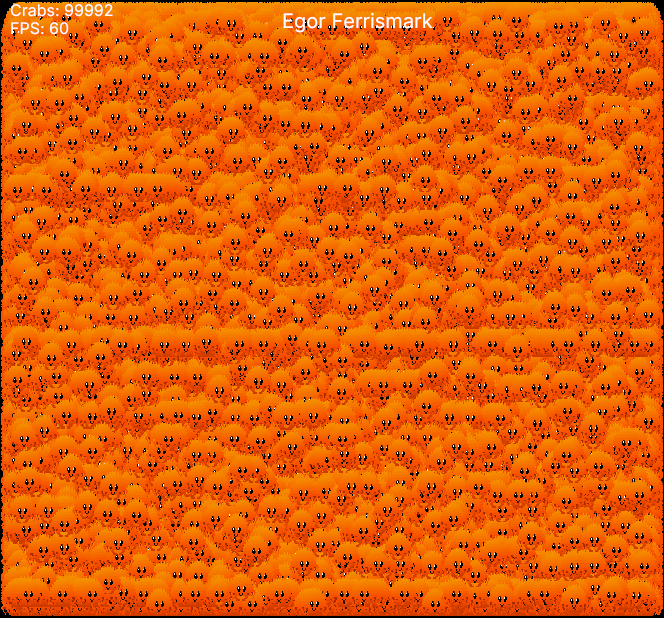
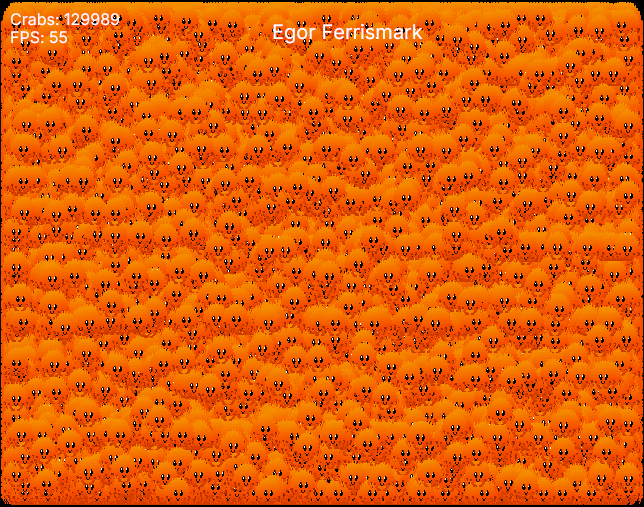
feat(render): render frames without a window
Renderer::headless picks an adapter with no surface and read_target copies the frame back,
so render_image can draw one frame for tests, thumbnails and hosts with no display. README
updated for software rendering and the ferrismark numbers.

diff --git a/crates/egor_render/src/lib.rs b/crates/egor_render/src/lib.rs
@@ -12,10 +12,12 @@ pub use wgpu::{Device, MemoryHints, Queue, RenderPass, TextureFormat};
 use std::cell::RefCell;
 use std::rc::Rc;
 use wgpu::{
-    Adapter, BindGroup, BindGroupDescriptor, BindGroupEntry, Buffer, BufferUsages, Color,
-    CommandEncoder, DeviceDescriptor, Instance, InstanceDescriptor, LoadOp, Operations,
-    RenderPassColorAttachment, RenderPassDescriptor, RequestAdapterOptions, StoreOp, SurfaceTarget,
-    TextureView, WindowHandle,
+    Adapter, BindGroup, BindGroupDescriptor, BindGroupEntry, Buffer, BufferDescriptor,
+    BufferUsages, COPY_BYTES_PER_ROW_ALIGNMENT, Color, CommandEncoder, CommandEncoderDescriptor,
+    DeviceDescriptor, Extent3d, Instance, InstanceDescriptor, LoadOp, MapMode, Operations,
+    Origin3d, PollType, RenderPassColorAttachment, RenderPassDescriptor, RequestAdapterOptions,
+    StoreOp, SurfaceTarget, TexelCopyBufferInfo, TexelCopyBufferLayout, TexelCopyTextureInfo,
+    TextureAspect, TextureView, WindowHandle,
     util::{BufferInitDescriptor, DeviceExt, new_instance_with_webgpu_detection},
 };
 
@@ -131,6 +133,7 @@ impl Renderer {
             })
             .await
             .unwrap();
+
         let (device, queue) = adapter
             .request_device(&DeviceDescriptor {
                 #[cfg(target_arch = "wasm32")]
@@ -142,8 +145,72 @@ impl Renderer {
             .unwrap();
 
         let surface_config = surface.get_default_config(&adapter, 1, 1).unwrap();
-        let surface_format = surface_config.format;
-        let pipelines = Pipelines::new(&device, surface_format);
+        Self::assemble(
+            Gpu {
+                instance,
+                adapter,
+                device,
+                queue,
+            },
+            surface_config.format,
+        )
+    }
+
+    /// Builds a renderer that never opens a window, for tests and headless hosts
+    ///
+    /// Frames render into an [`OffscreenTarget`]
+    /// and come back through [`Self::read_target`].
+    pub fn headless(width: u32, height: u32, memory_hints: &MemoryHints) -> Self {
+        pollster::block_on(async {
+            let instance = new_instance_with_webgpu_detection(
+                InstanceDescriptor::new_without_display_handle_from_env(),
+            )
+            .await;
+            let adapter = instance
+                .request_adapter(&RequestAdapterOptions::default())
+                .await
+                .unwrap();
+
+            let (device, queue) = adapter
+                .request_device(&DeviceDescriptor {
+                    #[cfg(target_arch = "wasm32")]
+                    required_limits: wgpu::Limits::downlevel_webgl2_defaults(),
+                    memory_hints: memory_hints.clone(),
+                    ..Default::default()
+                })
+                .await
+                .unwrap();
+
+            let renderer = Self::assemble(
+                Gpu {
+                    instance,
+                    adapter,
+                    device,
+                    queue,
+                },
+                TextureFormat::Rgba8UnormSrgb,
+            );
+            renderer.set_target_size(width, height);
+            renderer
+        })
+    }
+
+    fn assemble(gpu: Gpu, surface_format: TextureFormat) -> Self {
+        #[cfg(feature = "log")]
+        {
+            let info = gpu.adapter.get_info();
+            log::info!(
+                "adapter: {} ({:?}, {:?}, driver {})",
+                info.name,
+                info.backend,
+                info.device_type,
+                info.driver
+            );
+        }
+
+        let device = &gpu.device;
+        let queue = &gpu.queue;
+        let pipelines = Pipelines::new(device, surface_format);
 
         let quad_vertex_buffer = device.create_buffer_init(&BufferInitDescriptor {
             label: Some("Static Unit Quad VB"),
@@ -192,16 +259,11 @@ impl Renderer {
             }],
         });
 
-        let uniforms = Uniforms::new(&device);
-        let textures = Textures::new(&device, &queue);
+        let uniforms = Uniforms::new(device);
+        let textures = Textures::new(device, queue);
 
         Renderer {
-            gpu: Gpu {
-                instance,
-                adapter,
-                device,
-                queue,
-            },
+            gpu,
             pipelines,
             quad_vertex_buffer,
             quad_index_buffer,
@@ -267,6 +329,71 @@ impl Renderer {
         for id in freed {
             self.textures.free(id);
         }
+    }
+
+    /// Copies an offscreen target back as RGBA8 rows, top row first
+    ///
+    /// Each row is tightly packed, so the returned length is `width * height * 4`
+    /// whatever the copy alignment was.
+    pub fn read_target(&self, target: &OffscreenTarget) -> Vec<u8> {
+        let (width, height) = target.size();
+        let unpadded = width * 4;
+        let padded = unpadded.div_ceil(COPY_BYTES_PER_ROW_ALIGNMENT) * COPY_BYTES_PER_ROW_ALIGNMENT;
+
+        let buffer = self.gpu.device.create_buffer(&BufferDescriptor {
+            label: Some("Target Readback"),
+            size: u64::from(padded) * u64::from(height),
+            usage: BufferUsages::COPY_DST | BufferUsages::MAP_READ,
+            mapped_at_creation: false,
+        });
+
+        let mut encoder = self
+            .gpu
+            .device
+            .create_command_encoder(&CommandEncoderDescriptor::default());
+        encoder.copy_texture_to_buffer(
+            TexelCopyTextureInfo {
+                texture: target.attachment(),
+                mip_level: 0,
+                origin: Origin3d::ZERO,
+                aspect: TextureAspect::All,
+            },
+            TexelCopyBufferInfo {
+                buffer: &buffer,
+                layout: TexelCopyBufferLayout {
+                    offset: 0,
+                    bytes_per_row: Some(padded),
+                    rows_per_image: Some(height),
+                },
+            },
+            Extent3d {
+                width,
+                height,
+                depth_or_array_layers: 1,
+            },
+        );
+        self.gpu.queue.submit(Some(encoder.finish()));
+
+        let slice = buffer.slice(..);
+        slice.map_async(MapMode::Read, |_| {});
+        self.gpu
+            .device
+            .poll(PollType::Wait {
+                submission_index: None,
+                timeout: None,
+            })
+            .unwrap();
+
+        let mapped = slice.get_mapped_range().unwrap();
+        let mut pixels = Vec::with_capacity((unpadded * height) as usize);
+        for row in 0..height {
+            let start = (row * padded) as usize;
+            pixels.extend_from_slice(&mapped[start..start + unpadded as usize]);
+        }
+        drop(mapped);
+        buffer.unmap();
+
+        pixels
     }
 
     /// Begins a render pass with the given encoder and target view.

diff --git a/src/graphics.rs b/src/graphics.rs
@@ -1,5 +1,5 @@
 use egor_render::{
-    ClipRect, Renderer, Space, Texture, TextureFormat,
+    ClipRect, MemoryHints, Renderer, Space, Texture, TextureFormat,
     batch::{BatchKey, GeometryBatch},
     target::{OffscreenTarget, RenderTarget},
 };
@@ -13,6 +13,35 @@ use crate::{
     primitives::{BatchList, PolygonBuilder, PolylineBuilder, RectangleBuilder},
     text::{TextBuilder, TextSystem},
 };
+
+/// Renders one frame with no window and returns it as RGBA8 pixels
+///
+/// Top row first, tightly packed, `width * height * 4` bytes. For tests, thumbnails
+/// and hosts with no display; adapters come from the usual wgpu backend selection.
+pub fn render_image(width: u32, height: u32, mut draw: impl FnMut(&mut Graphics)) -> Vec<u8> {
+    let format = TextureFormat::Rgba8UnormSrgb;
+    let mut renderer = Renderer::headless(width, height, &MemoryHints::Performance);
+    let mut batches = BatchList::new(
+        GeometryBatch::DEFAULT_MAX_VERTICES,
+        GeometryBatch::DEFAULT_MAX_INDICES,
+    );
+    let mut text = TextSystem::new();
+    let mut target = renderer.create_offscreen_target(width, height, format);
+
+    {
+        let mut gfx = Graphics::new(
+            &mut renderer,
+            &mut batches,
+            &mut text,
+            format,
+            width,
+            height,
+        );
+        gfx.render_offscreen(&mut target, &mut draw);
+    }
+
+    renderer.read_target(&target)
+}
 
 /// Converts a screen-space [`Rect`] into an integer [`ClipRect`]
 ///

diff --git a/crates/egor_render/src/target.rs b/crates/egor_render/src/target.rs
@@ -151,6 +151,11 @@ impl OffscreenTarget {
         &self.sample_texture
     }
 
+    /// The attachment that draws land in, before the sample copy
+    pub(crate) fn attachment(&self) -> &Texture {
+        &self.render_texture
+    }
+
     pub fn view(&self) -> &TextureView {
         &self.sample_view
     }

diff --git a/src/lib.rs b/src/lib.rs
@@ -85,7 +85,7 @@ pub mod render {
     pub use crate::{
         camera::Camera,
         color::Color,
-        graphics::Graphics,
+        graphics::{Graphics, render_image},
         primitives::{BorderRadii, Pivot},
         text::Align,
     };

diff --git a/README.md b/README.md
@@ -184,11 +184,38 @@ the rebuild shows on screen.
 > `dx serve` to a file runs the app but never rebuilds, and the first patch after it starts can land
 > one save late.
 
+### Rendering Without a Window
+
+`egor::render::render_image` draws one frame into a buffer, no window and no event loop:
+
+```rust
+let pixels = egor::render::render_image(640, 360, |gfx| {
+    gfx.clear(Color::BLACK);
+    gfx.rect().screen().at(pos).size(size).color(Color::WHITE);
+    gfx.text("hello").at(pos).size(32.0);
+});
+```
+
+It returns tightly packed RGBA8, top row first, `width * height * 4` bytes, ready for a texture or an encoder. Shapes, text and clipping behave as they do in a window, which makes it usable for thumbnails, image tests and hosts with no display.
+
 ## Performance
 
-To stress test **egor**, we made [ferrismark](demos/ferrismark), a bunnymark like demo capable of rendering hundreds of thousands of Ferris crabs at stable FPS on modest hardware
+To stress test **egor**, [ferrismark](demos/ferrismark) is a bunnymark like demo: 129,989 Ferris crabs at 55 FPS on a Ryzen 5 1600 and a Radeon Pro WX 2100.
 
-<img src="media/ferrismark.png" height="400" />
+| Radeon Pro WX 2100, 129,989 crabs | llvmpipe, 10,000 crabs |
+| --- | --- |
+| <img src="media/ferrismark.png" height="320" /> | <img src="media/ferrismark-sw.png" height="320" /> |
+
+### Software Rendering
+
+wgpu picks the adapter, so a CPU driver works like any other. Mesa's lavapipe is its software Vulkan driver, packaged as `vulkan-swrast` on Arch:
+
+```bash
+sudo pacman -S vulkan-swrast
+VK_ICD_FILENAMES=/usr/share/vulkan/icd.d/lvp_icd.json cargo xtask run ferrismark --features log
+```
+
+`RUST_LOG=info` prints the adapter it picked: `adapter: llvmpipe (LLVM 23.1.5, 256 bits) (Vulkan, Cpu, driver llvmpipe)`.
 
 ## Demos
 

diff --git a/demos/ferrismark/README.md b/demos/ferrismark/README.md
@@ -6,11 +6,11 @@ A simple stress test for **egor** with Ferris the crab (or a few)
 
 ![Ferrismark Screenshot](/media/ferrismark.png)
 
-> Stable 60 FPS with ~100k Ferris crabs
+> 129,989 crabs at 55 FPS
 
 ## Performance
 
-The results seen here were produced (with this demo) from an optimized release build with a Ryzen 5 2600 and a Radeon Pro WX2100 using the Vulkan backend on Wayland/Arch Linux. Each crab is updated and rendered individually, without GPU instancing
+The results seen here were produced (with this demo) from an optimized release build with a Ryzen 5 1600 and a Radeon Pro WX 2100 using the Vulkan backend on Wayland/Arch Linux. Each crab is updated and rendered individually, without GPU instancing. On a CPU rasterizer (llvmpipe) the same demo holds 27 FPS with 10,000 crabs.
 
 ## Spawning Crabs
 
